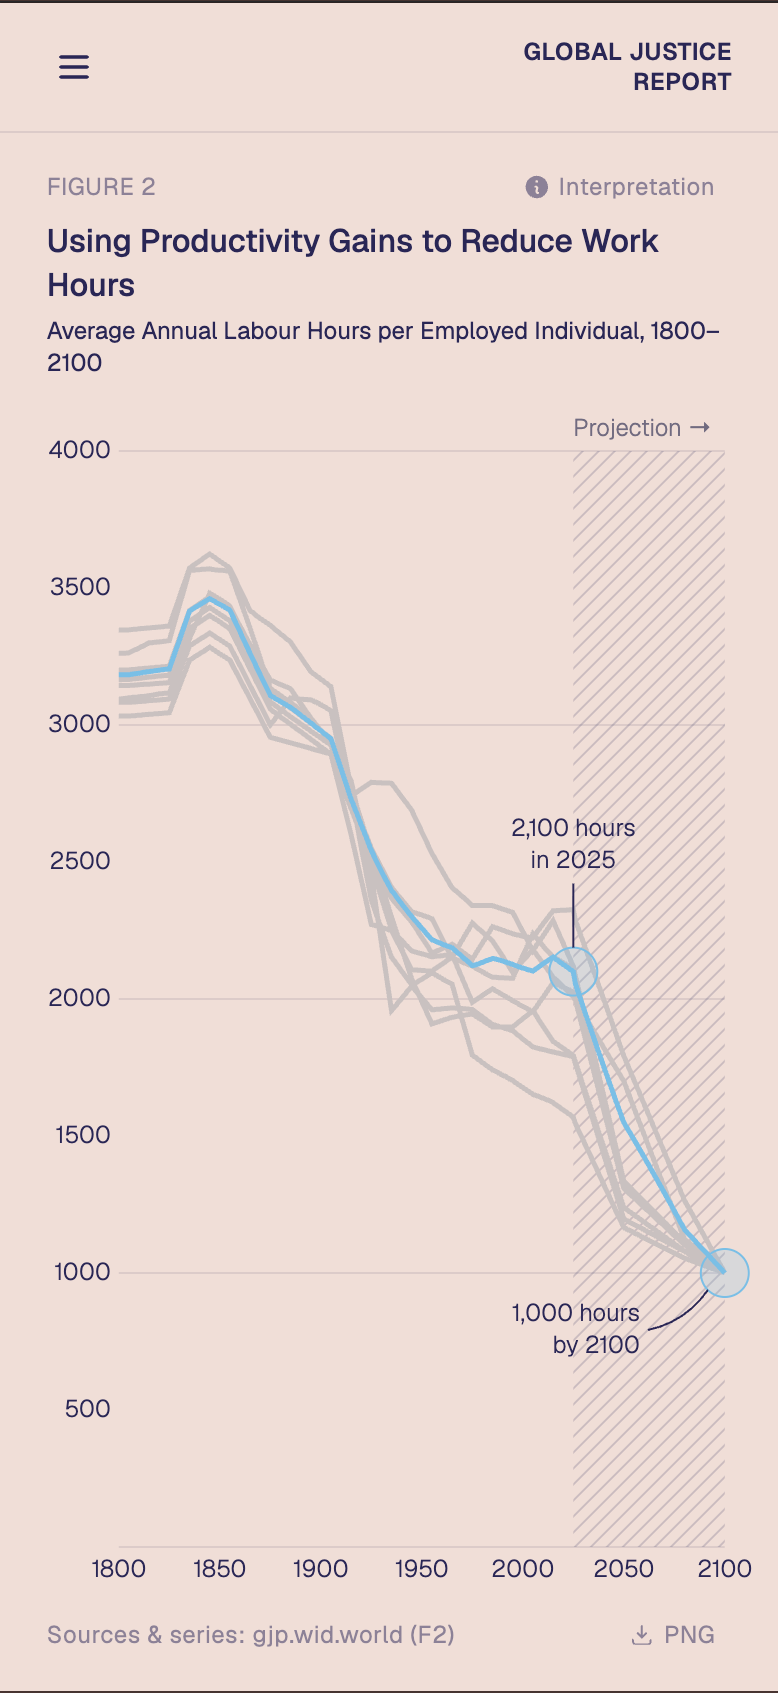
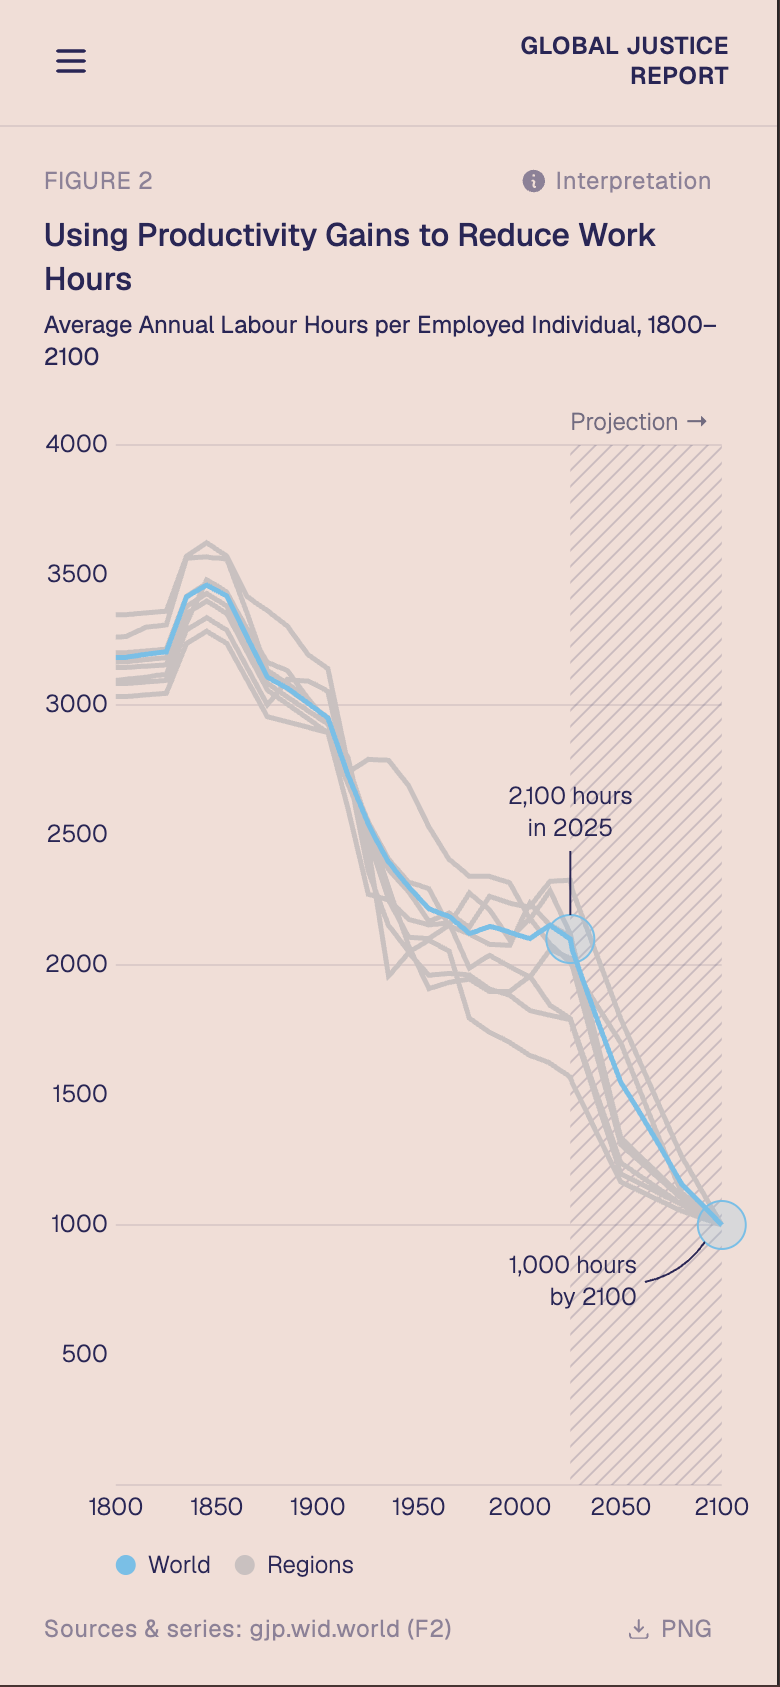
legend figure 2 manually world vs. regions new PNGs

diff --git a/src/lib/components/charts/LineChartPanel.svelte b/src/lib/components/charts/LineChartPanel.svelte
@@ -50,6 +50,7 @@
 
 <svelte:window bind:innerWidth />
 
+{#snippet chart()}
 <LineChart
   data={pair.data}
   x={pair.xKey}
@@ -83,3 +84,28 @@
     {/each}
   {/snippet}
 </LineChart>
+{/snippet}
+
+{#if pair.legendItems}
+  <!-- Manual legend for charts whose real series list would make a useless
+       legend (e.g. figure 2's eight identical gray region lines): the figure
+       supplies a few {label, color} entries that summarize the groupings.
+       Rendered below the plot like the built-in bottom-left legend, with the
+       same text size and swatch scale; pl-9 matches yLabelPadding's 36px
+       axis gutter so the swatches align with the plot's left edge. -->
+  <div class="flex min-w-0 flex-1 flex-col">
+    <div class="min-h-0 flex-1">
+      {@render chart()}
+    </div>
+    <div class="flex flex-wrap items-center gap-x-3 gap-y-1 pt-3 pl-9 text-xs font-light">
+      {#each pair.legendItems as item (item.label)}
+        <div class="flex items-center gap-1.5">
+          <span class="size-2.5 shrink-0 rounded-full" style:background-color={item.color}></span>
+          <span>{item.label}</span>
+        </div>
+      {/each}
+    </div>
+  </div>
+{:else}
+  {@render chart()}
+{/if}

diff --git a/src/lib/data/figures/02-work-hours.js b/src/lib/data/figures/02-work-hours.js
@@ -18,6 +18,12 @@ export default {
   xKey: "year",
   xTicks: quarterCenturyTicks(1800, 2100),
   lineEndLabels: true,
+  // The real legend would be eight identical gray swatches plus one blue, so
+  // summarize the two groupings instead (desktop tooltips name each region).
+  legendItems: [
+    { label: "World", color: palette[5] },
+    { label: "Regions", color: palette[6] },
+  ],
   series: [
     { key: "Europe", value: "europe", color: palette[6] },
     {